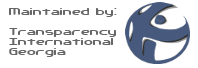
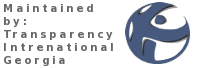
Image updates, color scheme change

Changed region(s): [[0.0, 0.2353, 0.6061, 0.9706], [0.0, 0.0588, 0.6061, 0.2647], [0.5758, 0.1176, 0.6061, 0.1471]]

diff --git a/templates/base.html b/templates/base.html
@@ -23,7 +23,7 @@
 						<a href='/'><img src="/media/images/fixmystreetlogo.png"></a>
 					</div>
 					<div id="header_right">
-						<a href='http://visiblegovernment.ca'><img src="/media/images/sitebyvg.png"></a>
+						<a href='http://www.transparency.ge'><img src="/media/images/sitebyvg.png"></a>
 					</div>
 				</div>
 				<div id="top_menu"><div id='top_menu_tr'><div id='top_menu_bl'><div id='top_menu_br'>
@@ -53,8 +53,8 @@
 					{% block content %}{% endblock %}
 				</div>
 				<div id="footer">
-					<a href="{% trans "http://transparency.ge/en" %}">{% trans "Transparency International Georgia" %}</a>{% comment %}  |
-					{% trans "Promotions" %}: <a href="/promotions/OBC">OBC</a>{% endcomment %}</p>
+ 					<div><a href="{% trans "http://www.epfound.ge/" %}"><img src="/media/images/epf-logo.png"></a></div>
+  					<div><a href="{% trans "http://transparency.ge/en" %}">{% trans "Transparency International Georgia" %}</a></div>
 					<div id='bugreport'>{% trans "Find a bug?" %} <a href="/contact/">{% trans "Tell us" %}</a>!</div>
 				</div>
 			</div><!--end page_container -->

diff --git a/media/css/colors.css b/media/css/colors.css
@@ -31,7 +31,7 @@
 }
 
 #photo_note {
-	color: #6396b0;
+	color: #48587A;
 }
 
 #top_menu {
@@ -85,7 +85,7 @@
 }
 
 #start_box {
-	background: #6396b0 url(/media/images/start_tl.png) no-repeat;
+	background: #48587A url(/media/images/start_tl.png) no-repeat;
 	color: #ffffff;
 }
 
@@ -107,7 +107,7 @@
 }
 
 a {
-	color: #6396b0;
+	color: #48587A;
 }
 
 
@@ -127,7 +127,7 @@ color:#666666;
 	color: #f3865a;
 }
 #content_container h3 {
-	color: #6396b0;
+	color: #48587A;
 }
 
 #content_container p a {

diff --git a/templates/home.html b/templates/home.html
@@ -58,7 +58,7 @@
 				<h4>{% trans "How to report a Problem" %}</h4>
 			   <ol>
 				   <li>{% trans "Choose your district" %}</li>
-   				   <li>{% trans "Locate the problem on a map of the area" %}</li>
+   				   <li>{% trans "Locate the problem on a map of the area by clicking EDIT" %}</li>
    				   <li>{% trans "Enter details of the problem" %}</li>
    				   <li>{% trans "We send it to the city on your behalf" %}</li>
 				</ol>

diff --git a/templates/multi_layer_map.html b/templates/multi_layer_map.html
@@ -24,6 +24,6 @@
     el.addUndoState();
 
     el.events.register('featureadded', el, pointMoved);
-    myMap.selectControl.setLayer(el);
+    myMap.selectControl.setLayer(el); // Resets the click control to just the marker layer, so we don't block dragging.
 </script>
 

diff --git a/mainapp/models.py b/mainapp/models.py
@@ -623,15 +623,15 @@ class CityTotals(ReportCountQuery):
         
 class CityWardsTotals(ReportCountQuery):
 
-    def __init__(self, city):
+    def __init__(self, city, lang):
         ReportCountQuery.__init__(self,"1 month")
         self.sql = self.base_query 
-        self.url_prefix = "/wards/"            
-        self.sql +=  ", wards.name, wards.id, wards.number from wards "
+        self.url_prefix = "/wards/"
+        self.sql +=  ", wards.name_%s, wards.id, wards.number from wards " %lang #Hack to link custom SQL with TransMeta
         self.sql += """left join reports on wards.id = reports.ward_id join cities on wards.city_id = cities.id join province on cities.province_id = province.id
         """
         self.sql += "and cities.id = " + str(city.id)
-        self.sql += " group by  wards.name, wards.id, wards.number order by wards.number" 
+        self.sql += " group by  wards.name_%s, wards.id, wards.number order by wards.number" %(lang)
     
     def number(self):
          return(self.get_results()[self.index][7])
@@ -641,14 +641,14 @@ class CityWardsTotals(ReportCountQuery):
 
 class AllCityTotals(ReportCountQuery):
 
-    def __init__(self):
+    def __init__(self, lang):
         ReportCountQuery.__init__(self,"1 month")
         self.sql = self.base_query         
         self.url_prefix = "/cities/"            
-        self.sql +=  ", cities.name, cities.id, province.name from cities "
+        self.sql +=  ", cities.name_%s, cities.id, province.name_%s from cities " %(lang,lang)
         self.sql += """left join wards on wards.city_id = cities.id join province on cities.province_id = province.id left join reports on wards.id = reports.ward_id 
         """ 
-        self.sql += "group by cities.name, cities.id, province.name order by province.name, cities.name"
+        self.sql += "group by cities.name_%s, cities.id, province.name_%s order by province.name_%s, cities.name_%s" %(lang, lang, lang, lang)
            
     def get_absolute_url(self):
         return( self.url_prefix + str(self.get_results()[self.index][6]))

diff --git a/mainapp/views/cities.py b/mainapp/views/cities.py
@@ -3,9 +3,9 @@ from mainapp.models import City, Report, CityTotals, CityWardsTotals, AllCityTot
 from django.template import Context, RequestContext
 from django.db.models import  Count
 
-def index(request):    
+def index(request):
     return render_to_response("cities/index.html",
-                {"report_counts": AllCityTotals() },
+                {"report_counts": AllCityTotals(request.LANGUAGE_CODE) },
                 context_instance=RequestContext(request))
 
 
@@ -23,7 +23,7 @@ def show( request, city_id ):
                 {"city":city,
                  "google": google,
                  'top_problems': top_problems,
-                 "report_counts": CityWardsTotals(city) },
+                 "report_counts": CityWardsTotals(city,request.LANGUAGE_CODE) },
                  context_instance=RequestContext(request))
 
 def home( request, city, error_msg, disambiguate ):
